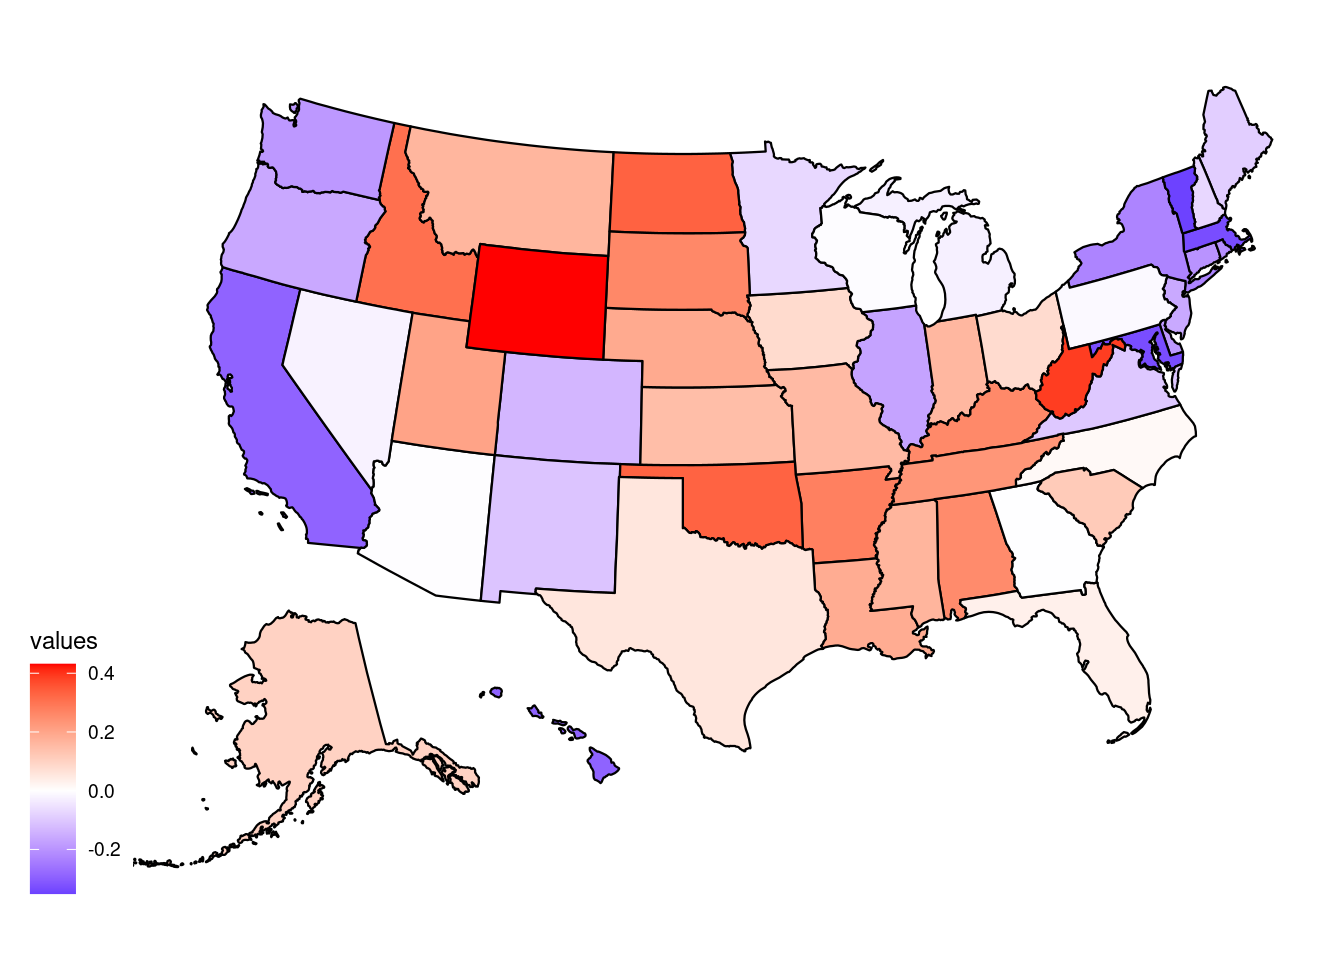
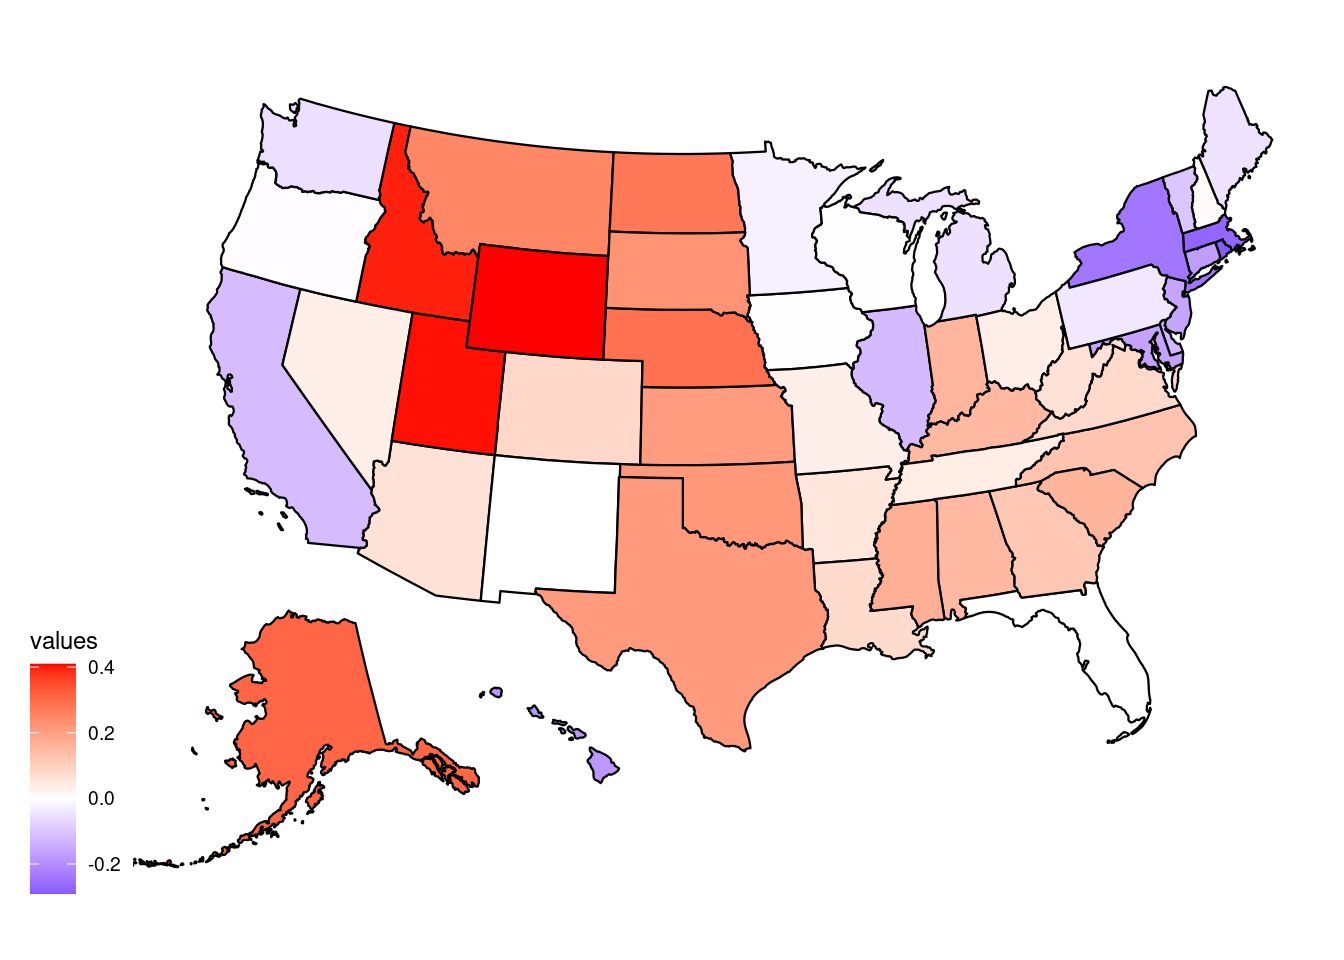
Made count of winners

diff --git a/index.html b/index.html
@@ -102,23 +102,42 @@ pre > code.sourceCode > span > a:first-child::before { text-decoration: underlin
 <span id="cb1-3"><a href="#cb1-3" aria-hidden="true" tabindex="-1"></a><span class="fu">library</span>(usmap)</span></code><button title="Copy to Clipboard" class="code-copy-button"><i class="bi"></i></button></pre></div>
 </div>
 <div class="cell">
-<div class="sourceCode cell-code" id="cb2"><pre class="sourceCode r code-with-copy"><code class="sourceCode r"><span id="cb2-1"><a href="#cb2-1" aria-hidden="true" tabindex="-1"></a>presidents <span class="ot">&lt;-</span> <span class="fu">read_csv</span>(<span class="st">"data/1976-2020-president.csv"</span>, <span class="at">show_col_types =</span> <span class="cn">FALSE</span>)</span>
-<span id="cb2-2"><a href="#cb2-2" aria-hidden="true" tabindex="-1"></a></span>
-<span id="cb2-3"><a href="#cb2-3" aria-hidden="true" tabindex="-1"></a>presidents1 <span class="ot">&lt;-</span> presidents <span class="sc">|&gt;</span></span>
-<span id="cb2-4"><a href="#cb2-4" aria-hidden="true" tabindex="-1"></a>  <span class="fu">filter</span>(party_detailed <span class="sc">%in%</span> <span class="fu">c</span>(<span class="st">"DEMOCRAT"</span>, <span class="st">"REPUBLICAN"</span>),</span>
-<span id="cb2-5"><a href="#cb2-5" aria-hidden="true" tabindex="-1"></a>         state <span class="sc">!=</span> <span class="st">"DISTRICT OF COLUMBIA"</span>, </span>
-<span id="cb2-6"><a href="#cb2-6" aria-hidden="true" tabindex="-1"></a>         year <span class="sc">==</span> <span class="dv">2020</span>) <span class="sc">|&gt;</span></span>
-<span id="cb2-7"><a href="#cb2-7" aria-hidden="true" tabindex="-1"></a>  <span class="fu">select</span>(party_detailed, year, state_fips, candidatevotes, totalvotes) <span class="sc">|&gt;</span></span>
-<span id="cb2-8"><a href="#cb2-8" aria-hidden="true" tabindex="-1"></a>  <span class="fu">mutate</span>(<span class="at">perc_votes =</span> candidatevotes <span class="sc">/</span> totalvotes) <span class="sc">|&gt;</span></span>
-<span id="cb2-9"><a href="#cb2-9" aria-hidden="true" tabindex="-1"></a>  <span class="fu">arrange</span>(party_detailed) <span class="sc">|&gt;</span></span>
-<span id="cb2-10"><a href="#cb2-10" aria-hidden="true" tabindex="-1"></a>  <span class="fu">group_by</span>(year, state_fips) <span class="sc">|&gt;</span></span>
-<span id="cb2-11"><a href="#cb2-11" aria-hidden="true" tabindex="-1"></a>  <span class="fu">reframe</span>(<span class="at">rep_dem_diff =</span> <span class="fu">diff</span>(perc_votes)) <span class="sc">|&gt;</span></span>
-<span id="cb2-12"><a href="#cb2-12" aria-hidden="true" tabindex="-1"></a>  <span class="fu">select</span>(<span class="sc">-</span>year) <span class="sc">|&gt;</span></span>
-<span id="cb2-13"><a href="#cb2-13" aria-hidden="true" tabindex="-1"></a>  <span class="fu">rename</span>(<span class="at">fips =</span> state_fips, <span class="at">values =</span> rep_dem_diff) </span></code><button title="Copy to Clipboard" class="code-copy-button"><i class="bi"></i></button></pre></div>
+<div class="sourceCode cell-code" id="cb2"><pre class="sourceCode r code-with-copy"><code class="sourceCode r"><span id="cb2-1"><a href="#cb2-1" aria-hidden="true" tabindex="-1"></a>presidents <span class="ot">&lt;-</span> <span class="fu">read_csv</span>(<span class="st">"data/1976-2020-president.csv"</span>, <span class="at">show_col_types =</span> <span class="cn">FALSE</span>)</span></code><button title="Copy to Clipboard" class="code-copy-button"><i class="bi"></i></button></pre></div>
 </div>
 <div class="cell">
-<div class="sourceCode cell-code" id="cb3"><pre class="sourceCode r code-with-copy"><code class="sourceCode r"><span id="cb3-1"><a href="#cb3-1" aria-hidden="true" tabindex="-1"></a><span class="fu">plot_usmap</span>(<span class="st">"states"</span>, <span class="at">data =</span> presidents1) <span class="sc">+</span></span>
-<span id="cb3-2"><a href="#cb3-2" aria-hidden="true" tabindex="-1"></a>  <span class="fu">scale_fill_gradient2</span>(<span class="at">low =</span> <span class="st">"blue"</span>, <span class="at">high =</span> <span class="st">"red"</span>, <span class="at">mid =</span> <span class="st">"white"</span>, <span class="at">midpoint =</span> <span class="dv">0</span>)</span></code><button title="Copy to Clipboard" class="code-copy-button"><i class="bi"></i></button></pre></div>
+<div class="sourceCode cell-code" id="cb3"><pre class="sourceCode r code-with-copy"><code class="sourceCode r"><span id="cb3-1"><a href="#cb3-1" aria-hidden="true" tabindex="-1"></a>presidents_winner <span class="ot">&lt;-</span> presidents <span class="sc">|&gt;</span></span>
+<span id="cb3-2"><a href="#cb3-2" aria-hidden="true" tabindex="-1"></a>  <span class="fu">filter</span>(year <span class="sc">==</span> <span class="dv">1976</span>, </span>
+<span id="cb3-3"><a href="#cb3-3" aria-hidden="true" tabindex="-1"></a>         party_simplified <span class="sc">%in%</span> <span class="fu">c</span>(<span class="st">"DEMOCRAT"</span>, <span class="st">"REPUBLICAN"</span>), </span>
+<span id="cb3-4"><a href="#cb3-4" aria-hidden="true" tabindex="-1"></a>         state <span class="sc">!=</span> <span class="st">"DISTRICT OF COLUMBIA"</span>) <span class="sc">|&gt;</span></span>
+<span id="cb3-5"><a href="#cb3-5" aria-hidden="true" tabindex="-1"></a>  <span class="fu">group_by</span>(state) <span class="sc">|&gt;</span></span>
+<span id="cb3-6"><a href="#cb3-6" aria-hidden="true" tabindex="-1"></a>  <span class="fu">filter</span>(candidatevotes <span class="sc">==</span> <span class="fu">max</span>(candidatevotes)) <span class="sc">|&gt;</span></span>
+<span id="cb3-7"><a href="#cb3-7" aria-hidden="true" tabindex="-1"></a>  <span class="fu">ungroup</span>() <span class="sc">|&gt;</span></span>
+<span id="cb3-8"><a href="#cb3-8" aria-hidden="true" tabindex="-1"></a>  <span class="fu">select</span>(year, state, state_fips, candidate, party_simplified) </span>
+<span id="cb3-9"><a href="#cb3-9" aria-hidden="true" tabindex="-1"></a></span>
+<span id="cb3-10"><a href="#cb3-10" aria-hidden="true" tabindex="-1"></a>presidents_winner <span class="sc">|&gt;</span></span>
+<span id="cb3-11"><a href="#cb3-11" aria-hidden="true" tabindex="-1"></a>  <span class="fu">count</span>(candidate)</span></code><button title="Copy to Clipboard" class="code-copy-button"><i class="bi"></i></button></pre></div>
+<div class="cell-output cell-output-stdout">
+<pre><code># A tibble: 2 × 2
+  candidate         n
+  &lt;chr&gt;         &lt;int&gt;
+1 CARTER, JIMMY    23
+2 FORD, GERALD     27</code></pre>
+</div>
+<div class="sourceCode cell-code" id="cb5"><pre class="sourceCode r code-with-copy"><code class="sourceCode r"><span id="cb5-1"><a href="#cb5-1" aria-hidden="true" tabindex="-1"></a>presidents1 <span class="ot">&lt;-</span> presidents <span class="sc">|&gt;</span></span>
+<span id="cb5-2"><a href="#cb5-2" aria-hidden="true" tabindex="-1"></a>  <span class="fu">filter</span>(party_simplified <span class="sc">%in%</span> <span class="fu">c</span>(<span class="st">"DEMOCRAT"</span>, <span class="st">"REPUBLICAN"</span>),</span>
+<span id="cb5-3"><a href="#cb5-3" aria-hidden="true" tabindex="-1"></a>         state <span class="sc">!=</span> <span class="st">"DISTRICT OF COLUMBIA"</span>, </span>
+<span id="cb5-4"><a href="#cb5-4" aria-hidden="true" tabindex="-1"></a>         year <span class="sc">==</span> <span class="dv">2000</span>) <span class="sc">|&gt;</span></span>
+<span id="cb5-5"><a href="#cb5-5" aria-hidden="true" tabindex="-1"></a>  <span class="fu">select</span>(party_simplified, year, state_fips, candidatevotes, totalvotes) <span class="sc">|&gt;</span></span>
+<span id="cb5-6"><a href="#cb5-6" aria-hidden="true" tabindex="-1"></a>  <span class="fu">mutate</span>(<span class="at">perc_votes =</span> candidatevotes <span class="sc">/</span> totalvotes) <span class="sc">|&gt;</span></span>
+<span id="cb5-7"><a href="#cb5-7" aria-hidden="true" tabindex="-1"></a>  <span class="fu">arrange</span>(party_simplified) <span class="sc">|&gt;</span></span>
+<span id="cb5-8"><a href="#cb5-8" aria-hidden="true" tabindex="-1"></a>  <span class="fu">group_by</span>(year, state_fips) <span class="sc">|&gt;</span></span>
+<span id="cb5-9"><a href="#cb5-9" aria-hidden="true" tabindex="-1"></a>  <span class="fu">reframe</span>(<span class="at">rep_dem_diff =</span> <span class="fu">diff</span>(perc_votes)) <span class="sc">|&gt;</span></span>
+<span id="cb5-10"><a href="#cb5-10" aria-hidden="true" tabindex="-1"></a>  <span class="fu">select</span>(<span class="sc">-</span>year) <span class="sc">|&gt;</span></span>
+<span id="cb5-11"><a href="#cb5-11" aria-hidden="true" tabindex="-1"></a>  <span class="fu">rename</span>(<span class="at">fips =</span> state_fips, <span class="at">values =</span> rep_dem_diff) </span></code><button title="Copy to Clipboard" class="code-copy-button"><i class="bi"></i></button></pre></div>
+</div>
+<div class="cell">
+<div class="sourceCode cell-code" id="cb6"><pre class="sourceCode r code-with-copy"><code class="sourceCode r"><span id="cb6-1"><a href="#cb6-1" aria-hidden="true" tabindex="-1"></a><span class="fu">plot_usmap</span>(<span class="st">"states"</span>, <span class="at">data =</span> presidents1) <span class="sc">+</span></span>
+<span id="cb6-2"><a href="#cb6-2" aria-hidden="true" tabindex="-1"></a>  <span class="fu">scale_fill_gradient2</span>(<span class="at">low =</span> <span class="st">"blue"</span>, <span class="at">high =</span> <span class="st">"red"</span>, <span class="at">mid =</span> <span class="st">"white"</span>, <span class="at">midpoint =</span> <span class="dv">0</span>)</span></code><button title="Copy to Clipboard" class="code-copy-button"><i class="bi"></i></button></pre></div>
 <div class="cell-output-display">
 <div>
 <figure class="figure">
@@ -128,7 +147,7 @@ pre > code.sourceCode > span > a:first-child::before { text-decoration: underlin
 </div>
 </div>
 <div class="cell">
-<div class="sourceCode cell-code" id="cb4"><pre class="sourceCode r code-with-copy"><code class="sourceCode r"><span id="cb4-1"><a href="#cb4-1" aria-hidden="true" tabindex="-1"></a><span class="fu">plot_usmap</span>(<span class="st">"states"</span>)</span></code><button title="Copy to Clipboard" class="code-copy-button"><i class="bi"></i></button></pre></div>
+<div class="sourceCode cell-code" id="cb7"><pre class="sourceCode r code-with-copy"><code class="sourceCode r"><span id="cb7-1"><a href="#cb7-1" aria-hidden="true" tabindex="-1"></a><span class="fu">plot_usmap</span>(<span class="st">"states"</span>)</span></code><button title="Copy to Clipboard" class="code-copy-button"><i class="bi"></i></button></pre></div>
 <div class="cell-output-display">
 <div>
 <figure class="figure">
@@ -136,16 +155,16 @@ pre > code.sourceCode > span > a:first-child::before { text-decoration: underlin
 </figure>
 </div>
 </div>
-<div class="sourceCode cell-code" id="cb5"><pre class="sourceCode r code-with-copy"><code class="sourceCode r"><span id="cb5-1"><a href="#cb5-1" aria-hidden="true" tabindex="-1"></a>map_data <span class="ot">&lt;-</span> presidents <span class="sc">|&gt;</span></span>
-<span id="cb5-2"><a href="#cb5-2" aria-hidden="true" tabindex="-1"></a>  <span class="fu">filter</span>(year <span class="sc">==</span> <span class="dv">1976</span>) <span class="sc">|&gt;</span></span>
-<span id="cb5-3"><a href="#cb5-3" aria-hidden="true" tabindex="-1"></a>  <span class="fu">group_by</span>(state) <span class="sc">|&gt;</span></span>
-<span id="cb5-4"><a href="#cb5-4" aria-hidden="true" tabindex="-1"></a>  <span class="fu">filter</span>(candidatevotes <span class="sc">==</span> <span class="fu">max</span>(candidatevotes)) <span class="sc">|&gt;</span></span>
-<span id="cb5-5"><a href="#cb5-5" aria-hidden="true" tabindex="-1"></a>  <span class="fu">ungroup</span>() <span class="sc">|&gt;</span></span>
-<span id="cb5-6"><a href="#cb5-6" aria-hidden="true" tabindex="-1"></a>  <span class="fu">select</span>(state_fips, party_detailed) <span class="sc">|&gt;</span></span>
-<span id="cb5-7"><a href="#cb5-7" aria-hidden="true" tabindex="-1"></a>  <span class="fu">rename</span>(<span class="at">fips =</span> state_fips, <span class="at">values =</span> party_detailed)</span>
-<span id="cb5-8"><a href="#cb5-8" aria-hidden="true" tabindex="-1"></a></span>
-<span id="cb5-9"><a href="#cb5-9" aria-hidden="true" tabindex="-1"></a><span class="fu">plot_usmap</span>(<span class="st">"states"</span>, <span class="at">data =</span> map_data) <span class="sc">+</span></span>
-<span id="cb5-10"><a href="#cb5-10" aria-hidden="true" tabindex="-1"></a>  <span class="fu">scale_fill_manual</span>(<span class="at">values =</span> <span class="fu">c</span>(<span class="st">"blue"</span>, <span class="st">"red"</span>)) </span></code><button title="Copy to Clipboard" class="code-copy-button"><i class="bi"></i></button></pre></div>
+<div class="sourceCode cell-code" id="cb8"><pre class="sourceCode r code-with-copy"><code class="sourceCode r"><span id="cb8-1"><a href="#cb8-1" aria-hidden="true" tabindex="-1"></a>map_data <span class="ot">&lt;-</span> presidents <span class="sc">|&gt;</span></span>
+<span id="cb8-2"><a href="#cb8-2" aria-hidden="true" tabindex="-1"></a>  <span class="fu">filter</span>(year <span class="sc">==</span> <span class="dv">1976</span>) <span class="sc">|&gt;</span></span>
+<span id="cb8-3"><a href="#cb8-3" aria-hidden="true" tabindex="-1"></a>  <span class="fu">group_by</span>(state) <span class="sc">|&gt;</span></span>
+<span id="cb8-4"><a href="#cb8-4" aria-hidden="true" tabindex="-1"></a>  <span class="fu">filter</span>(candidatevotes <span class="sc">==</span> <span class="fu">max</span>(candidatevotes)) <span class="sc">|&gt;</span></span>
+<span id="cb8-5"><a href="#cb8-5" aria-hidden="true" tabindex="-1"></a>  <span class="fu">ungroup</span>() <span class="sc">|&gt;</span></span>
+<span id="cb8-6"><a href="#cb8-6" aria-hidden="true" tabindex="-1"></a>  <span class="fu">select</span>(state_fips, party_detailed) <span class="sc">|&gt;</span></span>
+<span id="cb8-7"><a href="#cb8-7" aria-hidden="true" tabindex="-1"></a>  <span class="fu">rename</span>(<span class="at">fips =</span> state_fips, <span class="at">values =</span> party_detailed)</span>
+<span id="cb8-8"><a href="#cb8-8" aria-hidden="true" tabindex="-1"></a></span>
+<span id="cb8-9"><a href="#cb8-9" aria-hidden="true" tabindex="-1"></a><span class="fu">plot_usmap</span>(<span class="st">"states"</span>, <span class="at">data =</span> map_data) <span class="sc">+</span></span>
+<span id="cb8-10"><a href="#cb8-10" aria-hidden="true" tabindex="-1"></a>  <span class="fu">scale_fill_manual</span>(<span class="at">values =</span> <span class="fu">c</span>(<span class="st">"blue"</span>, <span class="st">"red"</span>)) </span></code><button title="Copy to Clipboard" class="code-copy-button"><i class="bi"></i></button></pre></div>
 <div class="cell-output-display">
 <div>
 <figure class="figure">
